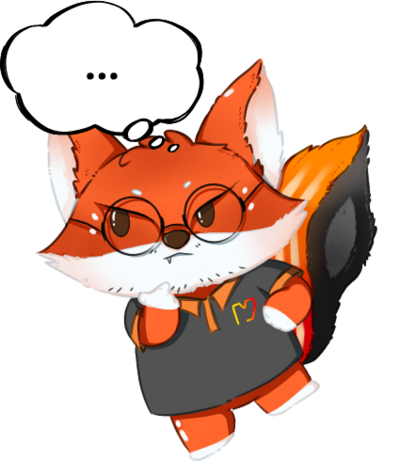
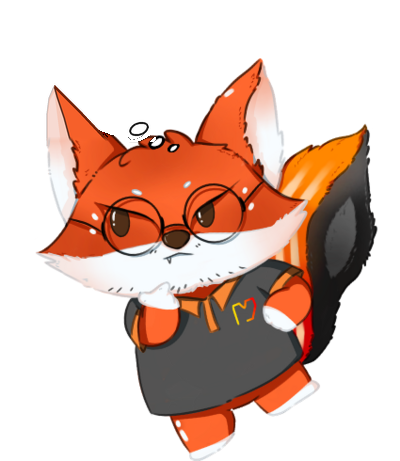
style(npc): remove the drawn cloud from the idle pose, redraw the left ear tip

diff --git a/js/npc.js b/js/npc.js
@@ -3,8 +3,8 @@
  * NPC - MPC fox mascot with a thought cloud
  * ============================================================================
  * - Appears once the desktop is ready (BootManager fires 'mpc:desktop-ready').
- * - Two poses: fox-think.png (its own "…" cloud) when quiet; fox-idea.png (cloud
- *   removed, the small thought dots kept) while talking, the line in a plain box.
+ * - Two poses: fox-think.png when quiet, fox-idea.png while talking (the clouds drawn
+ *   in both were removed, the small thought dots kept); the line shows in a plain box.
  * - Greets by time of day; the first visit also points to JOIN_MPC.exe.
  * - Lines are typed out letter by letter; the desktop icon a line talks about pulses.
  * - Click the fox for the next tip; opening an app gets a reaction line.

diff --git a/index.html b/index.html
@@ -149,8 +149,8 @@
     <!-- Desktop Icons Grid -->
     <div id="desktop-icons" class="desktop-icons-area"></div>
 
-    <!-- NPC mascot (js/npc.js). Two poses from the design team: fox-think.png (its own "…"
-         cloud, idle) and fox-idea.png (cloud removed; the bubble below shows the line). -->
+    <!-- NPC mascot (js/npc.js). Two poses from the design team: fox-think.png (idle) and
+         fox-idea.png (talking); their drawn clouds were removed, the bubble below shows the line. -->
     <div id="npc" class="npc hidden">
       <div class="npc-figure">
         <!-- Thought bubble: sits where the cloud is in the art, so the lines read as the fox's own -->

diff --git a/README.md b/README.md
@@ -62,7 +62,7 @@ Dự án là một **website tĩnh thuần 100%**, không sử dụng `node_modu
    - Xuất hiện ở góc phải dưới sau khi boot, chào theo giờ trong ngày; lần đầu chỉ tới `JOIN_MPC.exe`.
    - Lời thoại hiện từng chữ, icon được nhắc tới sẽ nhấp nháy viền cam; đứng yên ở Desktop 40 giây thì cáo nhắc (tối đa 2 lần, lần cuối chỉ tới JOIN).
    - Bấm vào cáo để xem gợi ý; mở app nào thì cáo có câu phản ứng riêng (lời thoại ở `js/i18n.js`, khóa `npc.*`).
-   - Hình cáo gồm 2 tư thế: `assets/npc/fox-think.png` (bong bóng "…", lúc im lặng) và `assets/npc/fox-idea.png` (đã xóa bong bóng, giữ các chấm nhỏ; lời thoại hiện trong khung bo tròn ở đúng chỗ đó). Thở, chớp mắt và kính lóe sáng là lớp CSS phủ lên ảnh (`css/npc.css`); đổi ảnh khác thì phải đo lại vị trí mắt/kính trong file này.
+   - Hình cáo gồm 2 tư thế: `assets/npc/fox-think.png` (tay chống cằm, lúc im lặng) và `assets/npc/fox-idea.png` (lúc nói; lời thoại hiện trong khung bo tròn ngay trên đầu). Bong bóng vẽ sẵn trong cả hai ảnh gốc đã được xóa (giữ các chấm nhỏ trên đầu), phần tai bị bong bóng che được vẽ lại. Thở, chớp mắt và kính lóe sáng là lớp CSS phủ lên ảnh (`css/npc.css`); đổi ảnh khác thì phải đo lại vị trí mắt/kính trong file này.
    - Cáo nằm trên cửa sổ app (dưới taskbar); đang mở app thì cáo thu nhỏ vào góc. Chạm ra chỗ khác (kể cả trong app) là khung thoại đóng; đang mở app hoặc màn hình thấp (xoay ngang) thì khung thoại nằm cạnh cáo.
    - "Ẩn mình đi" thu cáo thành tab nhỏ ở mép phải (nhớ cho lần sau).
 10. **Game & Ứng dụng phụ**:
